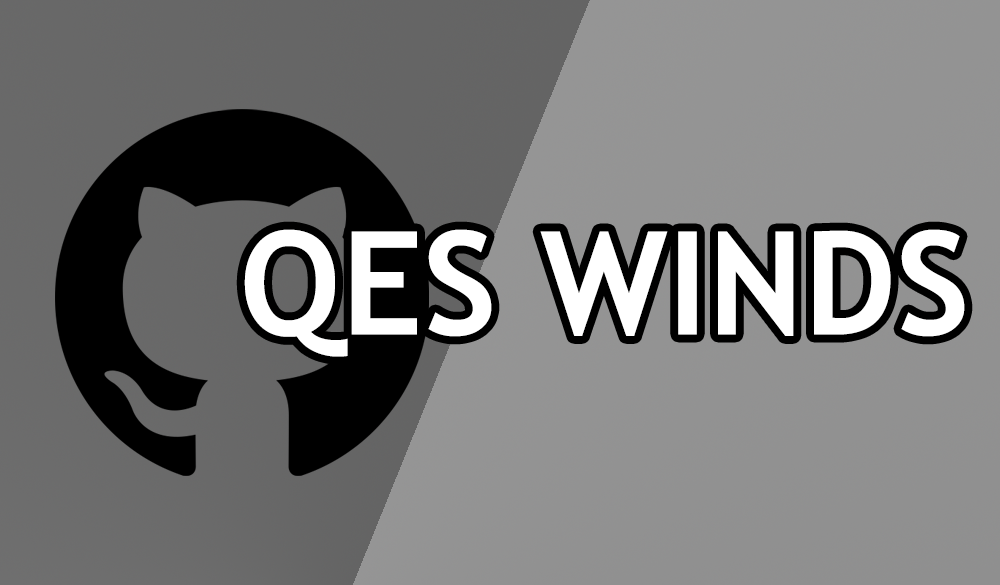
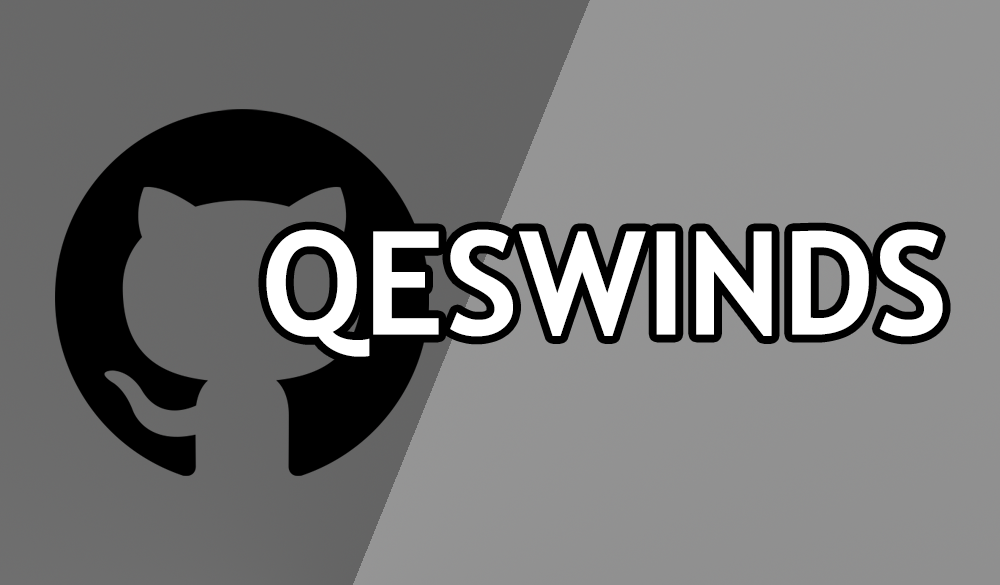
Added bootstrap and fixed QESWinds image.

Changed region(s): [[0.217, 0.3692, 0.992, 0.6154]]

diff --git a/new-index.html b/new-index.html
@@ -1,0 +1,122 @@
+<!DOCTYPE html>
+<html lang="en">
+    <meta charset="utf-8">
+    <meta name="viewport" content="width=device-width, initial-scale=1">
+
+    <!--The two links below allow Google Fonts to be added to the website.-->
+    <link rel="preconnect" href="https://fonts.gstatic.com">
+    <link href="https://fonts.googleapis.com/css2?family=PT+Sans+Narrow&display=swap" rel="stylesheet">
+
+    <!--Imports all the Bootstrap/jQuery resources.-->
+    <link rel="stylesheet" href="https://maxcdn.bootstrapcdn.com/bootstrap/4.5.2/css/bootstrap.min.css">
+    <script src="https://ajax.googleapis.com/ajax/libs/jquery/3.5.1/jquery.min.js"></script>
+    <script src="https://maxcdn.bootstrapcdn.com/bootstrap/4.5.2/js/bootstrap.min.js"></script>
+
+    <head>
+        <!--Set the name of the tab.-->
+        <title>Landing</title>
+
+        <!--Set the favicon.-->
+        <link rel="icon", href="https://github.com/UtahEFD/UtahEFD.github.io/blob/main/PREEVENTS/Images/NSF_logo.png?raw=true">
+    </head>
+
+    <!--Creates the background color of the webpage and the font.-->
+    <body style="background-color: darkgray; font-family: 'Varela Round', sans-serif;">
+        <!--Padding top: 3px. Margins (all four sides): 3px. Background of container: White.-->
+        <div class="container p-3 mx-auto my-3 bg-white">
+            <h1 class="h1 text-center font-weight-bolder py-4">Utah Environmental Fluid Dynamics</p>
+
+            <hr style="height: 2px; color:black; width: 75%; border-width: 2px;">
+
+            <!--Creates the LEMSv2 section.-->
+            <div class="lemsv2 p-3">
+                <!--Creates the image for the LEMSv2 page.-->
+                <a href="https://github.com/UtahEFD/LEMSv2" target="_blank">
+                    <img src="https://github.com/UtahEFD/UtahEFD.github.io/blob/main/PREEVENTS/Images/LEMSv2.png?raw=true" class="img-fluid float-left p-4 mx-auto" 
+                    alt="LEMSv2" height="261px" width="446px">
+                </a>
+                
+                <!--Creates the text for the LEMSv2 page.-->
+                <div id="text">
+                    <p class="font-weight-bold" style="font-size: 4.5vh;"">LEMSv2 - Local Energy-Budget Measurement Stations</p>
+
+                    <p class="font-weight-light" style="font-size: 4vh;">LEMS are solar powered, low-cost Energy-budget Measurement Stations, which have been designed and assembled at the University of Utah EFD lab.</p> <br>
+                    
+                    <a href="https://github.com/UtahEFD/LEMSv2" target="_blank" style="font-size: 3.5vh"><u>Visit the LEMSv2 GitHub repository.</u></a>
+                </div>                
+            </div>
+
+            <br>
+            <hr style="height: 2px; color:black; width: 75%; border-width: 2px;">
+
+            <!--Creates the PREEVENTS section.-->
+            <div class="preevents p-3">
+                <!--Creates the image for the PREEVENTS page.-->
+                <a href="https://utahefd.github.io/PREEVENTS/home.html" target="_blank">
+                    <img src="https://github.com/UtahEFD/UtahEFD.github.io/blob/main/PREEVENTS/Images/PREEVENTS.png?raw=true" class="img-fluid float-left p-4 mx-auto" 
+                    alt="PREEVENTS" height="261px" width="446px">
+                </a>
+                
+                <!--Creates the text for the PREEVENTS page.-->
+                <div id="text">
+                    <p class="font-weight-bold" style="font-size: 4.5vh;"">PREEVENTS</p>
+
+                    <p class="font-weight-light" style="font-size: 4vh;">A fast-response wildland fire modeling framework for prediction and risk assessment.</p> <br>
+                    
+                    <a href="https://github.com/UtahEFD/LEMSv2" target="_blank" style="font-size: 3.5vh"><u>Visit the PREEVENTS website.</u></a><br>
+                </div>
+            </div>
+
+            <br>
+            <hr style="height: 2px; color:black; width: 75%; border-width: 2px;">
+
+            <!--Creates the QESWinds section.-->
+            <div class="qesWinds p-3">
+                <!--Creates the image for the QESWinds page.-->
+                <a href="https://utahefd.github.io/PREEVENTS/home.html" target="_blank">
+                    <img src="https://github.com/UtahEFD/UtahEFD.github.io/blob/main/PREEVENTS/Images/PREEVENTS.png?raw=true" class="img-fluid float-left p-4 mx-auto" 
+                    alt="PREEVENTS" height="261px" width="446px">
+                </a>
+                
+                <!--Creates the text for the QESWinds page.-->
+                <div id="text">
+                    <p class="font-weight-bold" style="font-size: 4.5vh;"">QESWinds</p>
+
+                    <p class="font-weight-light" style="font-size: 4vh;">A fast-response wildland fire modeling framework for prediction and risk assessment.</p> <br>
+                    
+                    <a href="https://github.com/UtahEFD/LEMSv2" target="_blank" style="font-size: 3.5vh"><u>Visit the QESWinds Github repository.</u></a><br>
+                </div>
+            </div>
+
+            <br>
+            <hr style="height: 2px; color:black; width: 75%; border-width: 2px;">
+
+            <!--Creates the LEMSv2 section.-->
+            <div class="preevents p-3">
+                <!--Creates the image for the landing page.-->
+                <a href="https://utahefd.github.io/PREEVENTS/home.html" target="_blank">
+                    <img src="https://github.com/UtahEFD/UtahEFD.github.io/blob/main/PREEVENTS/Images/PREEVENTS.png?raw=true" class="img-fluid float-left p-4 mx-auto" 
+                    alt="PREEVENTS" height="261px" width="446px">
+                </a>
+                
+                <!--Creates the text for the landing page.-->
+                <div id="text">
+                    <p class="font-weight-bold" style="font-size: 4.5vh;"">PREEVENTS</p>
+
+                    <p class="font-weight-light" style="font-size: 4vh;">A fast-response wildland fire modeling framework for prediction and risk assessment.</p> <br>
+                    
+                    <a href="https://github.com/UtahEFD/LEMSv2" target="_blank" style="font-size: 3.5vh"><u>Visit the PREEVENTS website.</u></a><br>
+                </div>
+            </div>
+
+            <br>
+            <hr style="height: 2px; color:black; width: 75%; border-width: 2px;">
+
+            <div class="footer" style="text-align: center; font-size: 3vh;">
+                <a href="https://github.com/UtahEFD" target="_blank"><p><em>Visit the UtahEFD GitHub here.</em></p></a>
+            </div>
+
+        </div>
+    </body>
+</html>
+<!--Author: Eric Nieters - niete018@d.umn.edu-->
